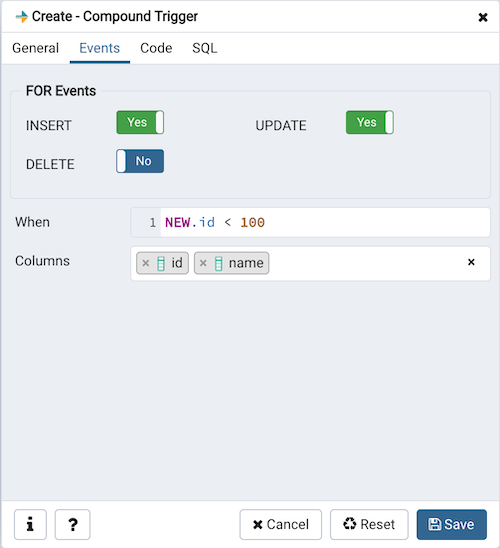
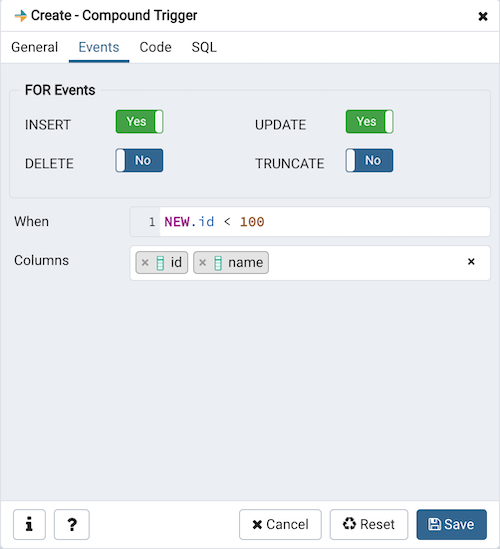
1) Ensure compound triggers should be displayed under Views. Fixes #4638. 2) Ensure Truncate option should be available for Compound Triggers. Fixes #4641.

diff --git a/web/pgadmin/browser/server_groups/servers/databases/schemas/tables/compound_triggers/static/js/compound_trigger.js b/web/pgadmin/browser/server_groups/servers/databases/schemas/tables/compound_triggers/static/js/compound_trigger.js
@@ -185,7 +185,13 @@ define('pgadmin.node.compound_trigger', [
           type: 'int', disabled: true, mode: ['properties'],
         },{
           id: 'is_enable_trigger', label: gettext('Trigger enabled?'),
-          type: 'switch', disabled: 'inSchema', mode: ['edit', 'properties'],
+          type: 'switch', mode: ['edit', 'properties'],
+          disabled: function() {
+            if(this.node_info && ('catalog' in this.node_info || 'view' in this.node_info)) {
+              return true;
+            }
+            return false;
+          },
         },{
           type: 'nested', control: 'fieldset', mode: ['create','edit', 'properties'],
           label: gettext('FOR Events'), group: gettext('Events'), contentClass: 'row',
@@ -225,6 +231,23 @@ define('pgadmin.node.compound_trigger', [
             disabled: function(m) {
               var evn_delete = m.get('evnt_delete');
               if (!_.isUndefined(evn_delete) && m.node_info['server']['server_type'] == 'ppas')
+                return false;
+              return m.inSchemaWithModelCheck.apply(this, [m]);
+            },
+          },{
+            id: 'evnt_truncate', label: gettext('TRUNCATE'),
+            type: 'switch', mode: ['create','edit', 'properties'],
+            group: gettext('FOR Events'),
+            extraToggleClasses: 'pg-el-sm-6',
+            controlLabelClassName: 'control-label pg-el-sm-5 pg-el-12',
+            controlsClassName: 'pgadmin-controls pg-el-sm-7 pg-el-12',
+            disabled: function(m) {
+              var evn_truncate = m.get('evnt_truncate');
+              // Views cannot have TRUNCATE triggers.
+              if ('view' in m.node_info)
+                return true;
+
+              if (!_.isUndefined(evn_truncate) && m.node_info['server']['server_type'] == 'ppas')
                 return false;
               return m.inSchemaWithModelCheck.apply(this, [m]);
             },
@@ -337,6 +360,12 @@ define('pgadmin.node.compound_trigger', [
                   '    -- Enter any local declarations here\n' +
                   'BEGIN\n' +
                   '    -- Enter any required code here\n' +
+                  'END;\n\n' +
+                  '-- INSTEAD OF EACH ROW block. Delete if not required.\n' +
+                  'INSTEAD OF EACH ROW IS\n' +
+                  '    -- Enter any local declarations here\n' +
+                  'BEGIN\n' +
+                  '    -- Enter any required code here\n' +
                   'END;');
         },
         // We will check if we are under schema node & in 'create' mode
@@ -397,11 +426,21 @@ define('pgadmin.node.compound_trigger', [
       },
       // Check to whether trigger is disable ?
       canCreate_with_compound_trigger_enable: function(itemData, item, data) {
+        var treeData = this.getTreeNodeHierarchy(item);
+        if ('view' in treeData) {
+          return false;
+        }
+
         return itemData.icon === 'icon-compound_trigger-bad' &&
           this.canCreate.apply(this, [itemData, item, data]);
       },
       // Check to whether trigger is enable ?
       canCreate_with_compound_trigger_disable: function(itemData, item, data) {
+        var treeData = this.getTreeNodeHierarchy(item);
+        if ('view' in treeData) {
+          return false;
+        }
+
         return itemData.icon === 'icon-compound_trigger' &&
           this.canCreate.apply(this, [itemData, item, data]);
       },

diff --git a/web/pgadmin/browser/server_groups/servers/databases/schemas/tables/triggers/static/js/trigger.js b/web/pgadmin/browser/server_groups/servers/databases/schemas/tables/triggers/static/js/trigger.js
@@ -187,8 +187,13 @@ define('pgadmin.node.trigger', [
           type: 'int', disabled: true, mode: ['properties'],
         },{
           id: 'is_enable_trigger', label: gettext('Trigger enabled?'),
-          type: 'switch', disabled: 'inSchema', mode: ['edit', 'properties'],
-          group: gettext('Definition'),
+          type: 'switch', mode: ['edit', 'properties'], group: gettext('Definition'),
+          disabled: function() {
+            if(this.node_info && ('catalog' in this.node_info || 'view' in this.node_info)) {
+              return true;
+            }
+            return false;
+          },
         },{
           id: 'is_row_trigger', label: gettext('Row trigger?'),
           type: 'switch', group: gettext('Definition'),
@@ -629,11 +634,21 @@ define('pgadmin.node.trigger', [
       canCreate: SchemaChildTreeNode.isTreeItemOfChildOfSchema,
       // Check to whether trigger is disable ?
       canCreate_with_trigger_enable: function(itemData, item, data) {
+        var treeData = this.getTreeNodeHierarchy(item);
+        if ('view' in treeData) {
+          return false;
+        }
+
         return itemData.icon === 'icon-trigger-bad' &&
           this.canCreate.apply(this, [itemData, item, data]);
       },
       // Check to whether trigger is enable ?
       canCreate_with_trigger_disable: function(itemData, item, data) {
+        var treeData = this.getTreeNodeHierarchy(item);
+        if ('view' in treeData) {
+          return false;
+        }
+
         return itemData.icon === 'icon-trigger' &&
           this.canCreate.apply(this, [itemData, item, data]);
       },

diff --git a/web/pgadmin/browser/server_groups/servers/databases/schemas/tables/compound_triggers/tests/test_compound_triggers_add.py b/web/pgadmin/browser/server_groups/servers/databases/schemas/tables/compound_triggers/tests/test_compound_triggers_add.py
@@ -20,12 +20,28 @@ from pgadmin.browser.server_groups.servers.databases.tests import utils as \
 from pgadmin.utils.route import BaseTestGenerator
 from regression import parent_node_dict
 from regression.python_test_utils import test_utils as utils
+from pgadmin.browser.server_groups.servers.databases.schemas.views.tests \
+    import utils as view_utils
 
 
 class CompoundTriggersAddTestCase(BaseTestGenerator):
     """This class will add new compound trigger under table node."""
     skip_on_database = ['gpdb']
     scenarios = [
+        ('Create compound trigger for all events',
+         dict(
+             url='/browser/compound_trigger/obj/',
+             data={
+                 "prosrc": "var varchar2(20) := 'Global_var';\n\n"
+                           "BEFORE STATEMENT IS\nBEGIN\n    "
+                           "DBMS_OUTPUT.PUT_LINE('Before Statement: ' || var)"
+                           ";\n var := 'BEFORE STATEMENT';\nEND;",
+                 "evnt_insert": True,
+                 "evnt_update": True,
+                 "evnt_delete": True,
+                 "evnt_truncate": True
+             }
+         )),
         ('Create compound trigger for insert and delete',
          dict(
              url='/browser/compound_trigger/obj/',
@@ -75,6 +91,47 @@ class CompoundTriggersAddTestCase(BaseTestGenerator):
                  "columns": ["id", "name"]
              }
          )),
+        ('Create compound trigger for truncate',
+         dict(
+             url='/browser/compound_trigger/obj/',
+             data={
+                 "prosrc": "var varchar2(20) := 'Global_var';\n\n"
+                           "BEFORE STATEMENT IS\nBEGIN\n    "
+                           "DBMS_OUTPUT.PUT_LINE('Before Statement: ' || var)"
+                           ";\n var := 'BEFORE STATEMENT';\nEND;",
+                 "evnt_truncate": True
+             }
+         )),
+        ('Create compound trigger for insert delete and update on view',
+         dict(
+             url='/browser/compound_trigger/obj/',
+             data={
+                 "prosrc": "var varchar2(20) := 'Global_var';\n\n"
+                           "BEFORE STATEMENT IS\nBEGIN\n    "
+                           "DBMS_OUTPUT.PUT_LINE('Before Statement: ' || var)"
+                           ";\n var := 'BEFORE STATEMENT';\nEND;",
+                 "evnt_insert": True,
+                 "evnt_update": True,
+                 "evnt_delete": True,
+                 "evnt_truncate": False
+             },
+             on_view=True
+         )),
+        ('Create compound trigger for instead of each row',
+         dict(
+             url='/browser/compound_trigger/obj/',
+             data={
+                 "prosrc": "var varchar2(20) := 'Global_var';\n\n"
+                           "INSTEAD OF EACH ROW IS\nBEGIN\n    "
+                           "DBMS_OUTPUT.PUT_LINE('Instead of: ' || var)"
+                           ";\n var := 'INSTEAD OF EACH ROW';\nEND;",
+                 "evnt_insert": True,
+                 "evnt_update": True,
+                 "evnt_delete": True,
+                 "evnt_truncate": False
+             },
+             on_view=True
+         )),
     ]
 
     def setUp(self):
@@ -112,6 +169,14 @@ class CompoundTriggersAddTestCase(BaseTestGenerator):
         self.table_id = tables_utils.create_table(self.server, self.db_name,
                                                   self.schema_name,
                                                   self.table_name)
+        view_sql = "CREATE OR REPLACE VIEW %s.%s AS SELECT 'Hello World'; " \
+                   "ALTER TABLE %s.%s OWNER TO %s"
+        self.view_name = \
+            "view_compound_trigger_%s" % (str(uuid.uuid4())[1:8])
+        self.view_id = view_utils.create_view(self.server, self.db_name,
+                                              self.schema_name,
+                                              view_sql,
+                                              self.view_name)
 
     def runTest(self):
         """This function will create compound trigger under table node."""
@@ -120,10 +185,14 @@ class CompoundTriggersAddTestCase(BaseTestGenerator):
 
         self.data.update({"name": trigger_name})
 
+        object_id = self.table_id
+        if hasattr(self, 'on_view'):
+            object_id = self.view_id
+
         response = self.tester.post(
             "{0}{1}/{2}/{3}/{4}/{5}/".format(self.url, utils.SERVER_GROUP,
                                              self.server_id, self.db_id,
-                                             self.schema_id, self.table_id),
+                                             self.schema_id, object_id),
             data=json.dumps(self.data),
             content_type='html/json'
         )

diff --git a/web/pgadmin/browser/server_groups/servers/databases/schemas/views/__init__.py b/web/pgadmin/browser/server_groups/servers/databases/schemas/views/__init__.py
@@ -874,6 +874,83 @@ class ViewNode(PGChildNodeView, VacuumSettings):
                 SQL_data += SQL
         return SQL_data
 
+    def get_compound_trigger_sql(self, vid):
+        """
+        Get all compound trigger nodes associated with view node,
+        generate their sql and render into sql tab
+        """
+        if self.manager.server_type == 'ppas' \
+                and self.manager.version >= 120000:
+
+            from pgadmin.browser.server_groups.servers.databases.schemas.utils\
+                import trigger_definition
+
+            # Define template path
+            self.ct_trigger_temp_path = 'compound_triggers'
+
+            SQL_data = ''
+            SQL = render_template("/".join(
+                [self.ct_trigger_temp_path,
+                 'sql/{0}/#{1}#/nodes.sql'.format(
+                     self.manager.server_type, self.manager.version)]),
+                tid=vid)
+
+            status, data = self.conn.execute_dict(SQL)
+            if not status:
+                return internal_server_error(errormsg=data)
+
+            for trigger in data['rows']:
+                SQL = render_template("/".join(
+                    [self.ct_trigger_temp_path,
+                     'sql/{0}/#{1}#/properties.sql'.format(
+                         self.manager.server_type, self.manager.version)]),
+                    tid=vid,
+                    trid=trigger['oid']
+                )
+
+                status, res = self.conn.execute_dict(SQL)
+                if not status:
+                    return internal_server_error(errormsg=res)
+
+                if len(res['rows']) == 0:
+                    continue
+                res_rows = dict(res['rows'][0])
+                res_rows['table'] = res_rows['relname']
+                res_rows['schema'] = self.view_schema
+
+                if len(res_rows['tgattr']) > 1:
+                    columns = ', '.join(res_rows['tgattr'].split(' '))
+                    SQL = render_template("/".join(
+                        [self.ct_trigger_temp_path,
+                         'sql/{0}/#{1}#/get_columns.sql'.format(
+                             self.manager.server_type,
+                             self.manager.version)]),
+                        tid=trigger['oid'],
+                        clist=columns)
+
+                    status, rset = self.conn.execute_2darray(SQL)
+                    if not status:
+                        return internal_server_error(errormsg=rset)
+                    # 'tgattr' contains list of columns from table
+                    # used in trigger
+                    columns = []
+
+                    for col_row in rset['rows']:
+                        columns.append(col_row['name'])
+
+                    res_rows['columns'] = columns
+
+                res_rows = trigger_definition(res_rows)
+                SQL = render_template("/".join(
+                    [self.ct_trigger_temp_path,
+                     'sql/{0}/#{1}#/create.sql'.format(
+                         self.manager.server_type, self.manager.version)]),
+                    data=res_rows, display_comments=True)
+                SQL_data += '\n'
+                SQL_data += SQL
+
+            return SQL_data
+
     def get_trigger_sql(self, vid):
         """
         Get all trigger nodes associated with view node,
@@ -943,7 +1020,8 @@ class ViewNode(PGChildNodeView, VacuumSettings):
             if not status:
                 return internal_server_error(errormsg=result)
 
-            # Update the trigger function which we have fetched with schemaname
+            # Update the trigger function which we have fetched with
+            # schemaname
             if (
                 'rows' in result and len(result['rows']) > 0 and
                 'tfunctions' in result['rows'][0]
@@ -1083,6 +1161,7 @@ class ViewNode(PGChildNodeView, VacuumSettings):
         SQL_data += SQL
         SQL_data += self.get_rule_sql(vid)
         SQL_data += self.get_trigger_sql(vid)
+        SQL_data += self.get_compound_trigger_sql(vid)
         SQL_data += self.get_index_sql(did, vid)
 
         return ajax_response(response=SQL_data)

diff --git a/web/pgadmin/browser/server_groups/servers/databases/schemas/views/children/__init__.py b/web/pgadmin/browser/server_groups/servers/databases/schemas/views/children/__init__.py
@@ -13,3 +13,5 @@ from pgadmin.browser.server_groups.servers.databases.schemas.tables.triggers \
     import blueprint as triggers_modules
 from pgadmin.browser.server_groups.servers.databases.schemas.tables.rules \
     import blueprint as rules_modules
+from pgadmin.browser.server_groups.servers.databases.schemas.tables.\
+    compound_triggers import blueprint as compound_trigger_modules

diff --git a/docs/en_US/compound_trigger_dialog.rst b/docs/en_US/compound_trigger_dialog.rst
@@ -34,7 +34,8 @@ Use the fields in the *Events* tab to specify how and when the compound trigger 
 
 * Select the type of event(s) that will invoke the compound trigger; to select
   an event type, move the switch next to the event to the *YES* position.
-  The supported event types are *INSERT*, *UPDATE*, *DELETE*.
+  The supported event types are *INSERT*, *UPDATE*, *DELETE* and *TRUNCATE*.
+  Views cannot have TRUNCATE triggers.
 * Use the *When* field to provide a boolean condition that will invoke the
   compound trigger.
 * If defining a column-specific compound trigger, use the *Columns* field to
@@ -46,10 +47,10 @@ Click the *Code* tab to continue.
     :alt: Compound Trigger dialog code tab
     :align: center
 
-Use the *Code* field to specify the code for the four timing events
-*BEFORE STATEMENT*, *AFTER STATEMENT*, *BEFORE EACH ROW*, *AFTER EACH ROW*
-that will be invoked when the compound trigger fires. Basic template is provided
-with place holders.
+Use the *Code* field to specify the code for the five timing events
+*BEFORE STATEMENT*, *AFTER STATEMENT*, *BEFORE EACH ROW*, *AFTER EACH ROW*,
+*INSTEAD OF EACH ROW* that will be invoked when the compound trigger fires.
+Basic template is provided with place holders.
 
 Click the *SQL* tab to continue.
 

diff --git a/docs/en_US/release_notes_4_12.rst b/docs/en_US/release_notes_4_12.rst
@@ -53,3 +53,5 @@ Bug fixes
 | `Issue #4585 <https://redmine.postgresql.org/issues/4585>`_ -  Fix double click issue to expand the contents of a cell if the resultset was not editable.
 | `Issue #4586 <https://redmine.postgresql.org/issues/4586>`_ -  Fix generation of reverse engineered SQL for Rules.
 | `Issue #4635 <https://redmine.postgresql.org/issues/4635>`_ -  Ensure compound triggers for event should be updated properly.
+| `Issue #4638 <https://redmine.postgresql.org/issues/4638>`_ -  Ensure compound triggers should be displayed under Views.
+| `Issue #4641 <https://redmine.postgresql.org/issues/4641>`_ -  Ensure Truncate option should be available for Compound Triggers.
